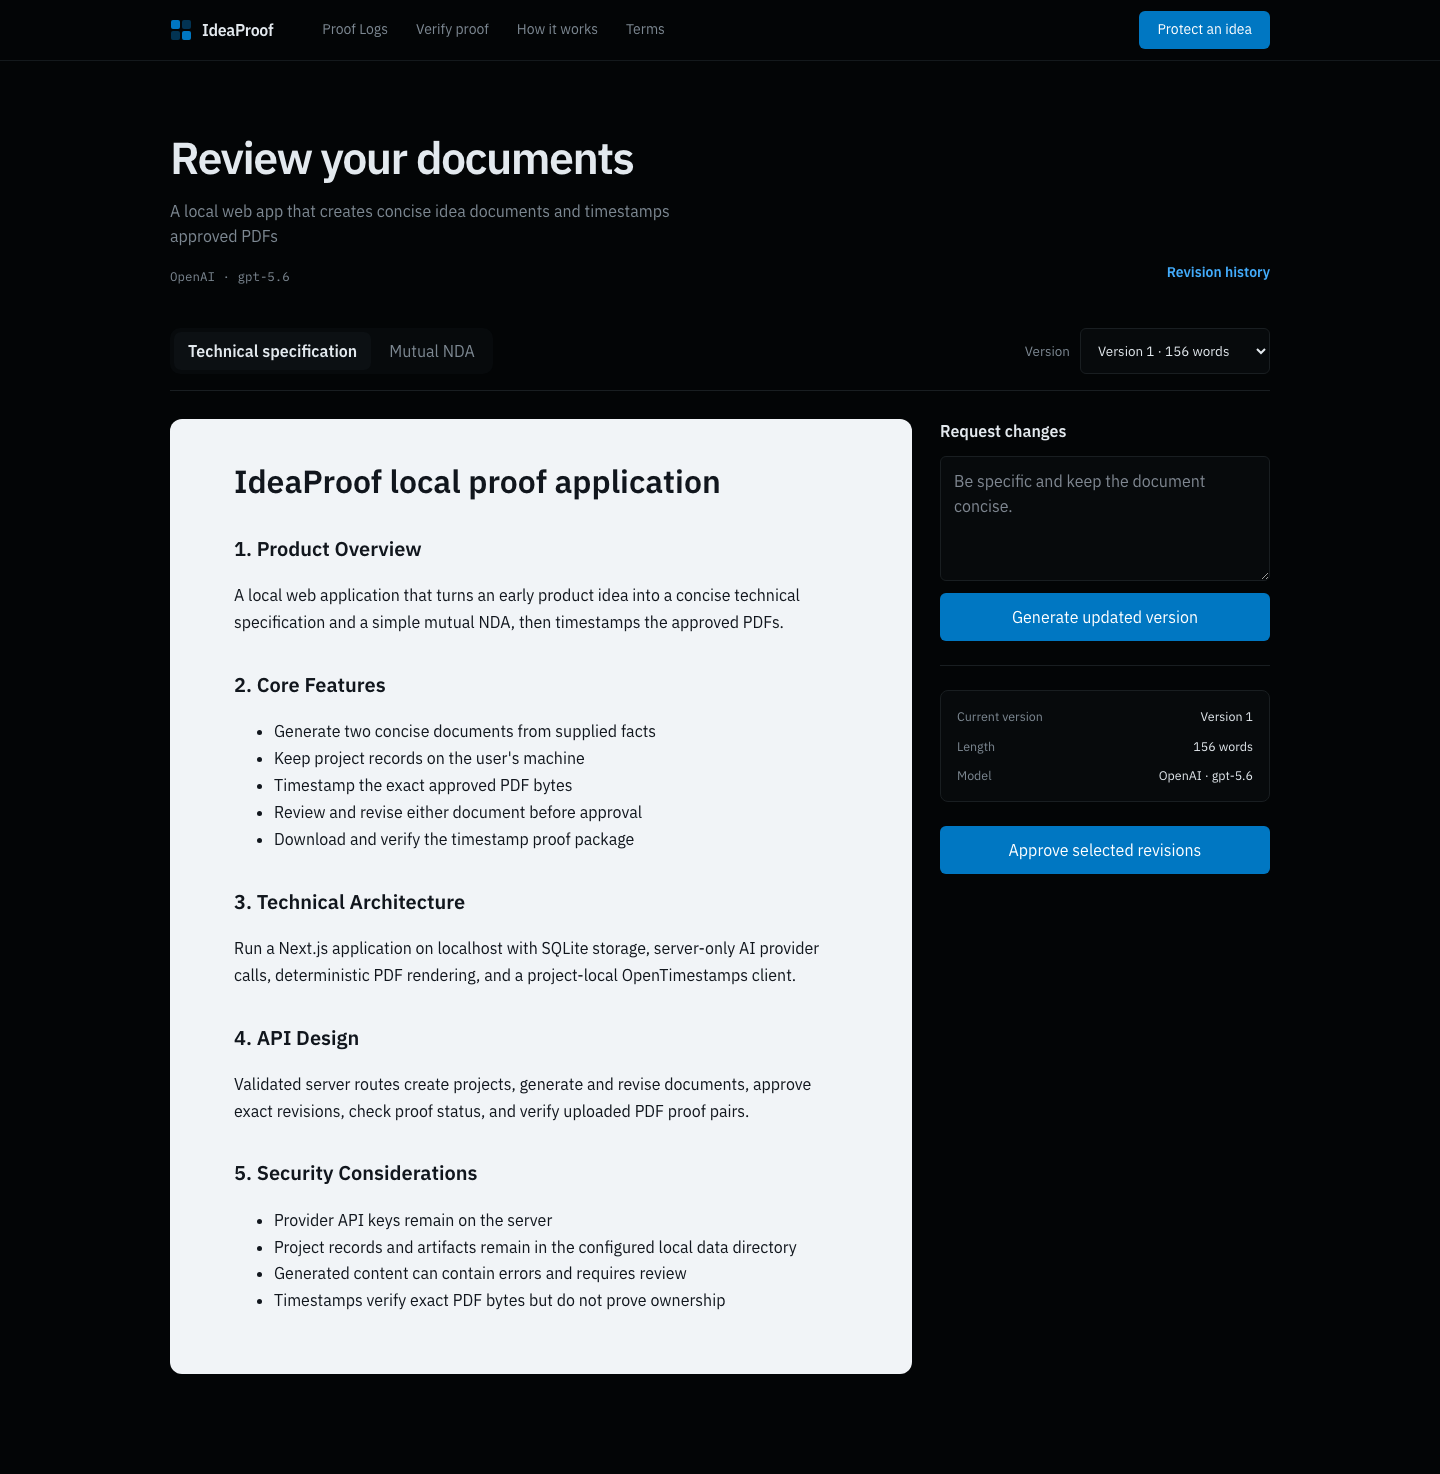
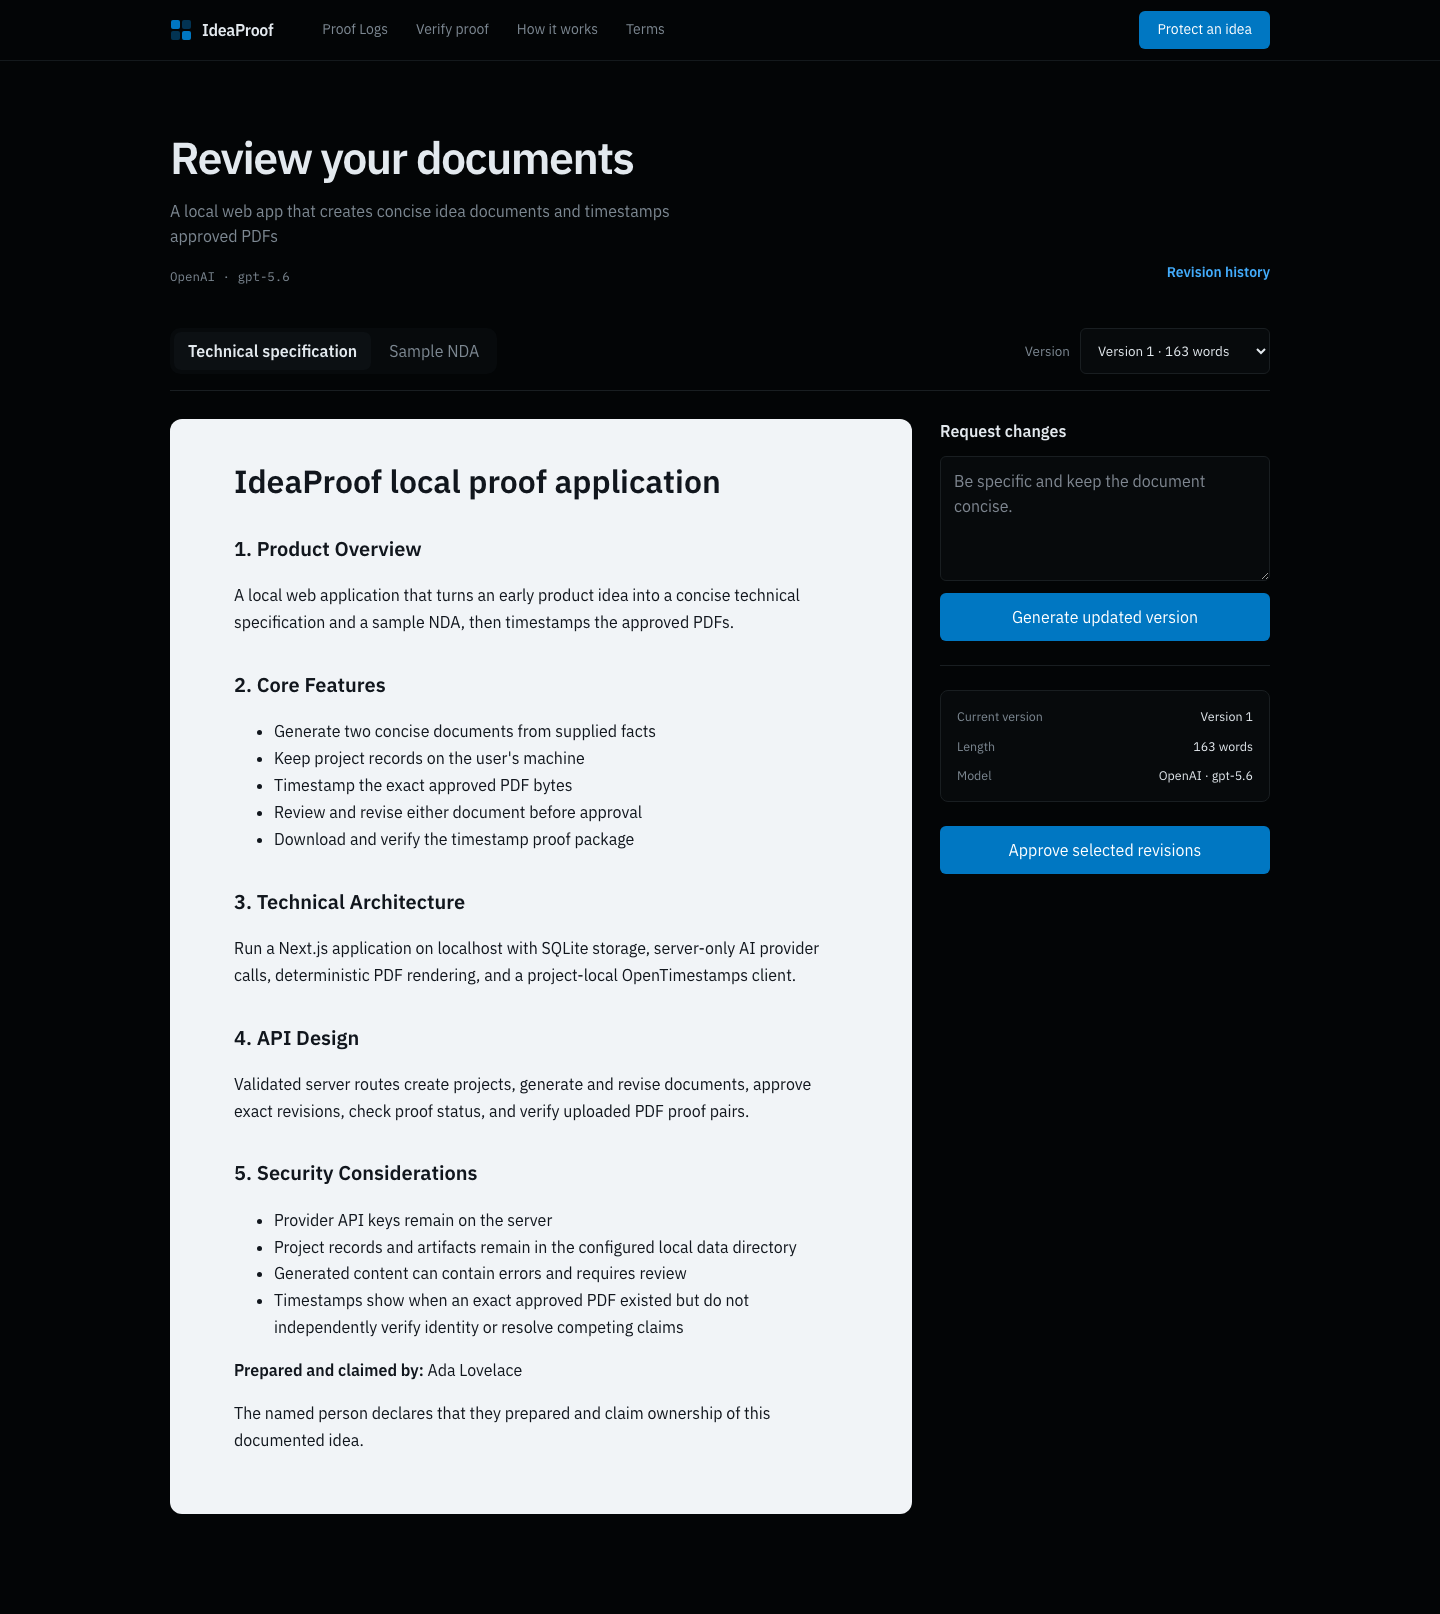
feat: finish timestamped owner declarations

diff --git a/tests/e2e/ideaproof.spec.ts b/tests/e2e/ideaproof.spec.ts
@@ -22,6 +22,7 @@ for (const provider of [
   }, testInfo) => {
   await page.goto("/projects/new");
   await page.getByLabel(provider.label).check();
+  await page.getByLabel("Owner’s full name").fill("Ada Lovelace");
   await page
     .getByLabel("Raw software idea")
     .fill(
@@ -37,7 +38,7 @@ for (const provider of [
     .click();
   await expect(page).toHaveURL(/\/projects\/[^/]+\/review$/);
 
-  await page.getByRole("tab", { name: "Mutual NDA" }).click();
+  await page.getByRole("tab", { name: "Sample NDA" }).click();
   await page.getByLabel("Request changes").fill("Use shorter sentences.");
   await page
     .getByRole("button", { name: "Generate updated version" })
@@ -53,8 +54,16 @@ for (const provider of [
 
   await page.getByRole("link", { name: "Approve selected revisions" }).click();
   await expect(
-    page.getByText("Mutual NDA").locator("..").getByText("Version 1"),
+    page.getByText("Sample NDA").locator("..").getByText("Version 1"),
   ).toBeVisible();
+  await expect(
+    page.getByText("Prepared and claimed by:").locator(".."),
+  ).toContainText("Ada Lovelace");
+  const ownershipConfirmation = page.getByRole("checkbox", {
+    name: "I confirm that I prepared and claim ownership of this documented idea.",
+  });
+  await expect(ownershipConfirmation).not.toBeChecked();
+  await ownershipConfirmation.check();
   await page
     .getByRole("button", { name: "Approve and create proof" })
     .click();
@@ -73,9 +82,9 @@ for (const provider of [
   const archive = unzipSync(new Uint8Array(await readFile(downloadPath)));
   expect(Object.keys(archive).sort()).toEqual([
     "manifest.json",
-    "mutual-nda.md",
-    "mutual-nda.pdf",
-    "mutual-nda.pdf.ots",
+    "sample-nda.md",
+    "sample-nda.pdf",
+    "sample-nda.pdf.ots",
     "technical-specification.md",
     "technical-specification.pdf",
     "technical-specification.pdf.ots",
@@ -85,6 +94,15 @@ for (const provider of [
   );
   const manifest = JSON.parse(strFromU8(archive["manifest.json"]));
   expect(manifest.schemaVersion).toBe(2);
+  expect(
+    manifest.documents.find(
+      (document: { type: string }) => document.type === "nda",
+    ),
+  ).toMatchObject({
+    markdownFile: "sample-nda.md",
+    pdfFile: "sample-nda.pdf",
+    proofFile: "sample-nda.pdf.ots",
+  });
   expect(manifest.documents).toEqual(
     expect.arrayContaining([
       expect.objectContaining({
@@ -105,9 +123,18 @@ for (const provider of [
       (document: { type: string }) => document.type === "nda",
     ).revisionId,
   ).toBe(versionOneId);
-  expect(strFromU8(archive["mutual-nda.md"])).not.toContain(
+  expect(strFromU8(archive["sample-nda.md"])).not.toContain(
     "Revision two uses shorter sentences.",
   );
+  const approvedSpecification = strFromU8(
+    archive["technical-specification.md"],
+  );
+  expect(approvedSpecification).toContain(
+    "**Prepared and claimed by:** Ada Lovelace",
+  );
+  expect(
+    approvedSpecification.match(/Prepared and claimed by/g),
+  ).toHaveLength(1);
 
   await page.goto("/verify");
   await page.getByLabel("PDF file").setInputFiles({

diff --git a/tests/documents/attribution.test.ts b/tests/documents/attribution.test.ts
@@ -29,3 +29,78 @@ it("keeps exactly one declaration when applied more than once", () => {
 
   expect(markdown.match(/Prepared and claimed by/g)).toHaveLength(1);
 });
+
+it("removes a provider-authored reserved marker before appending", () => {
+  const markdown = withOwnerDeclaration(
+    `# Specification
+
+The provider wrote Prepared and claimed by: Someone Else in the body.
+`,
+    "Ada Lovelace",
+  );
+
+  expect(markdown).not.toContain("Someone Else");
+  expect(markdown.match(/Prepared and claimed by/gi)).toHaveLength(1);
+});
+
+it("replaces a noncanonical attribution block with the local declaration", () => {
+  const markdown = withOwnerDeclaration(
+    `# Specification
+
+**Prepared and claimed by:** Someone Else
+
+The named person declares that they prepared and claim ownership of this documented idea.
+
+## Remaining content
+
+Keep this section.
+`,
+    "Ada Lovelace",
+  );
+
+  expect(markdown).not.toContain("Someone Else");
+  expect(markdown).toContain("Keep this section.");
+  expect(markdown.match(/Prepared and claimed by/gi)).toHaveLength(1);
+});
+
+it("defensively removes the reserved marker from an unvalidated owner name", () => {
+  const markdown = withOwnerDeclaration(
+    "# Specification\n",
+    "Prepared and claimed by Ada Lovelace",
+  );
+
+  expect(markdown).toContain(
+    "**Prepared and claimed by:** Ada Lovelace",
+  );
+  expect(markdown.match(/Prepared and claimed by/gi)).toHaveLength(1);
+});
+
+it("preserves accepted interior owner-name spacing", () => {
+  const markdown = withOwnerDeclaration(
+    "# Specification\n",
+    "Ada  Lovelace",
+  );
+
+  expect(markdown).toContain(
+    "**Prepared and claimed by:** Ada  Lovelace",
+  );
+});
+
+it("does not leave punctuation from a reserved declaration owner value", () => {
+  const specification = "# Specification\n";
+
+  expect(
+    withOwnerDeclaration(
+      specification,
+      "The named person declares that they prepared and claim ownership of this documented idea.",
+    ),
+  ).toBe(specification);
+});
+
+it("preserves provider Markdown spacing outside reserved lines", () => {
+  const markdown = "# Specification\n\n\nBody.\n";
+
+  expect(withOwnerDeclaration(markdown, "Ada Lovelace")).toContain(
+    "# Specification\n\n\nBody.",
+  );
+});

diff --git a/tests/e2e/screenshots.spec.ts b/tests/e2e/screenshots.spec.ts
@@ -23,6 +23,7 @@ test("capture public README screens", async ({ page }) => {
   });
 
   await page.goto("/projects/new");
+  await page.getByLabel("Owner’s full name").fill("Ada Lovelace");
   await page
     .getByLabel("Raw software idea")
     .fill(
@@ -70,9 +71,13 @@ test("capture public README screens", async ({ page }) => {
   await expect(
     page.getByRole("tab", { name: "Technical specification" }),
   ).toBeVisible();
-  await expect(page.getByRole("tab", { name: "Mutual NDA" })).toBeVisible();
+  await expect(page.getByRole("tab", { name: "Sample NDA" })).toBeVisible();
   await expect(page.getByLabel("Version")).toBeVisible();
   await expect(page.getByLabel("Request changes")).toBeVisible();
+  await expect(
+    page.getByText("Prepared and claimed by:"),
+  ).toBeVisible();
+  await expect(page.getByText("Ada Lovelace")).toBeVisible();
   await expect(page.getByText(/demo/i)).toHaveCount(0);
   await page.screenshot({
     path: "docs/images/ideaproof-review.png",
@@ -106,6 +111,11 @@ test("capture public README screens", async ({ page }) => {
     path: "/tmp/ideaproof-approve.png",
     fullPage: true,
   });
+  await page
+    .getByRole("checkbox", {
+      name: "I confirm that I prepared and claim ownership of this documented idea.",
+    })
+    .check();
   await page
     .getByRole("button", { name: "Approve and create proof" })
     .click();

diff --git a/server/documents/attribution.ts b/server/documents/attribution.ts
@@ -5,13 +5,28 @@ export function withOwnerDeclaration(
   markdown: string,
   ownerName: string,
 ): string {
-  const name = ownerName.trim();
+  const name = ownerName
+    .replace(
+      /the named person declares that they prepared and claim ownership of this documented idea\.?|prepared and claimed by/giu,
+      "",
+    )
+    .trim();
   if (!name) return markdown;
   const withoutExisting = markdown.replace(
     /\n+---\n+\*\*Prepared and claimed by:\*\*[\s\S]*$/u,
     "",
   );
-  return `${withoutExisting.trimEnd()}
+  const withoutReservedMarkers = withoutExisting
+    .split("\n")
+    .filter(
+      (line) =>
+        !/prepared and claimed by/iu.test(line) &&
+        !/the named person declares that they prepared and claim ownership of this documented idea\./iu.test(
+          line,
+        ),
+    )
+    .join("\n");
+  return `${withoutReservedMarkers.trimEnd()}
 
 ---
 

diff --git a/tests/fixtures/openai-responses.ts b/tests/fixtures/openai-responses.ts
@@ -26,7 +26,7 @@ const specification: TechnicalSpecificationOutput = {
     "Provider API keys remain on the server",
     "Project records and artifacts remain in the configured local data directory",
     "Generated content can contain errors and requires review",
-    "Timestamps verify exact PDF bytes but do not prove ownership",
+    "Timestamps show when an exact approved PDF existed but do not independently verify identity or resolve competing claims",
   ],
 };
 

diff --git a/tests/api/projects.test.ts b/tests/api/projects.test.ts
@@ -63,6 +63,11 @@ it.each([
   ["too long", "A".repeat(121)],
   ["line break", "Ada\nLovelace"],
   ["Markdown controls", "**Ada**"],
+  ["reserved attribution marker", "Prepared and claimed by Ada"],
+  [
+    "reserved declaration",
+    "The named person declares that they prepared and claim ownership of this documented idea",
+  ],
 ])("rejects an %s owner name", async (_case, ownerName) => {
   const response = await POST(
     jsonRequest({

diff --git a/app/api/projects/route.ts b/app/api/projects/route.ts
@@ -9,7 +9,13 @@ const ownerNameSchema = z
   .trim()
   .min(1)
   .max(120)
-  .regex(/^[\p{L}\p{M}\p{N}][\p{L}\p{M}\p{N} .,'’\u002D]*$/u);
+  .regex(/^[\p{L}\p{M}\p{N}][\p{L}\p{M}\p{N} .,'’\u002D]*$/u)
+  .refine(
+    (name) =>
+      !/prepared and claimed by|the named person declares that they prepared and claim ownership of this documented idea/iu.test(
+        name,
+      ),
+  );
 
 const projectInputSchema = z
   .object({

diff --git a/README.md b/README.md
@@ -17,13 +17,26 @@ SQLite data remain on your machine.
 
 ![IdeaProof document review screen](docs/images/ideaproof-review.png)
 
-## Important limits
+## Owner declaration and important limits
 
-IdeaProof does not prove ownership, authorship, patent rights, or legal
-validity. A confirmed timestamp shows only that the digital fingerprint of an
-exact PDF existed by a certain time. The sample NDA is not legal advice, and
-AI-generated content can contain errors. Review both documents before approval
-and consult a qualified lawyer when appropriate.
+Each new project requires the idea owner’s full name. IdeaProof stores that
+name locally, does not send it to the selected AI provider, and appends this
+declaration to the technical specification:
+
+> **Prepared and claimed by:** Owner’s full name
+>
+> The named person declares that they prepared and claim ownership of this
+> documented idea.
+
+The named person must affirm that declaration before first approval. It becomes
+part of the exact approved PDF and therefore part of that PDF’s digital
+fingerprint. A confirmed timestamp shows that the exact approved PDF existed by
+a certain time; it does not independently verify identity, resolve competing
+ownership claims, establish patent rights, or determine legal validity.
+
+The sample NDA is not legal advice, and AI-generated content can contain
+errors. Review both documents before approval and consult a qualified lawyer
+when appropriate.
 
 Document generation sends the required idea and NDA purpose to the AI provider
 you select using your API key. Local verification does not send uploaded PDFs
@@ -141,9 +154,15 @@ Each approved ZIP contains only:
 - `sample-nda.pdf.ots`
 - `manifest.json`
 
+Packages created by earlier IdeaProof versions with `mutual-nda.*` filenames
+remain valid and can still be verified; existing stored packages are not
+renamed.
+
 The manifest identifies the approved revisions, prompt versions, word counts,
-providers, models, PDF digital fingerprints, and approval time. It excludes
-intake text, revision feedback, API keys, database files, and internal paths.
+providers, models, PDF digital fingerprints, and approval time. The technical
+specification files contain the locally appended owner declaration. The
+manifest excludes intake text, revision feedback, API keys, database files, and
+internal paths.
 
 OpenTimestamps confirmation can take hours. Use **Check confirmation** on the
 proof page later. To verify independently in IdeaProof, open **Verify proof** and

diff --git a/CONTRIBUTING.md b/CONTRIBUTING.md
@@ -27,6 +27,9 @@ downloads, and `.ots` files out of fixtures and commits.
   Anthropic fixtures.
 - Schema changes must use a new ordered SQL migration. Never edit an applied
   migration in place.
+- Owner-name changes must keep the value local: never add it to generation or
+  revision provider inputs. Preserve the deterministic declaration, the
+  first-approval confirmation, and legacy empty-owner behavior.
 - PDF changes must preserve deterministic bytes, embedded-font licensing,
   multipage behavior, visible NDA blanks, and visual inspection.
 - Proof changes must invoke executables with argument arrays and `shell: false`.
@@ -38,7 +41,8 @@ downloads, and `.ots` files out of fixtures and commits.
 
 ## README screenshots
 
-Screenshots use deterministic fixtures and contain no keys or personal data:
+Screenshots use deterministic fixtures and contain no keys or real personal
+data. Use the fixed placeholder name `Ada Lovelace` for the owner declaration:
 
 ```bash
 npm run test:e2e -- tests/e2e/screenshots.spec.ts
